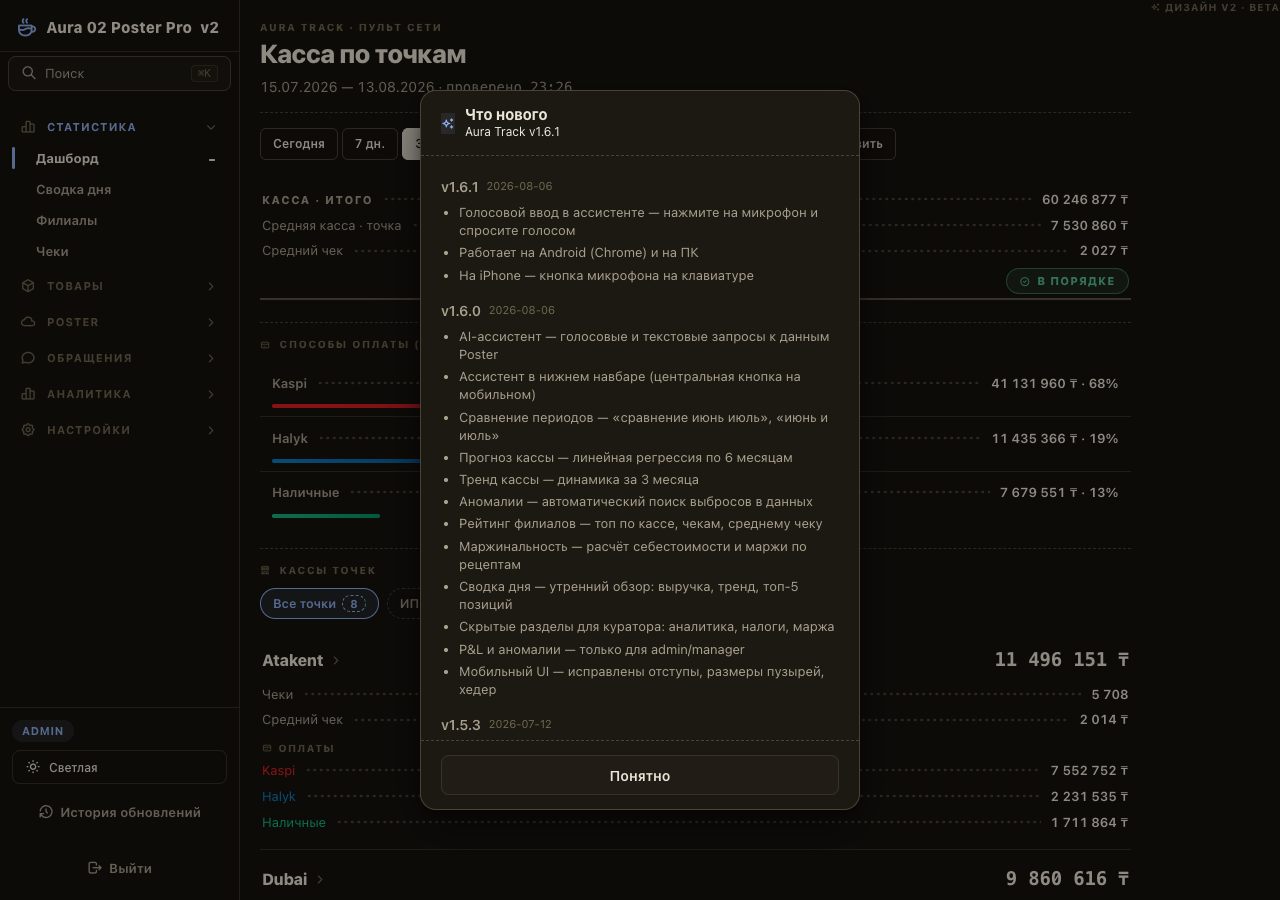
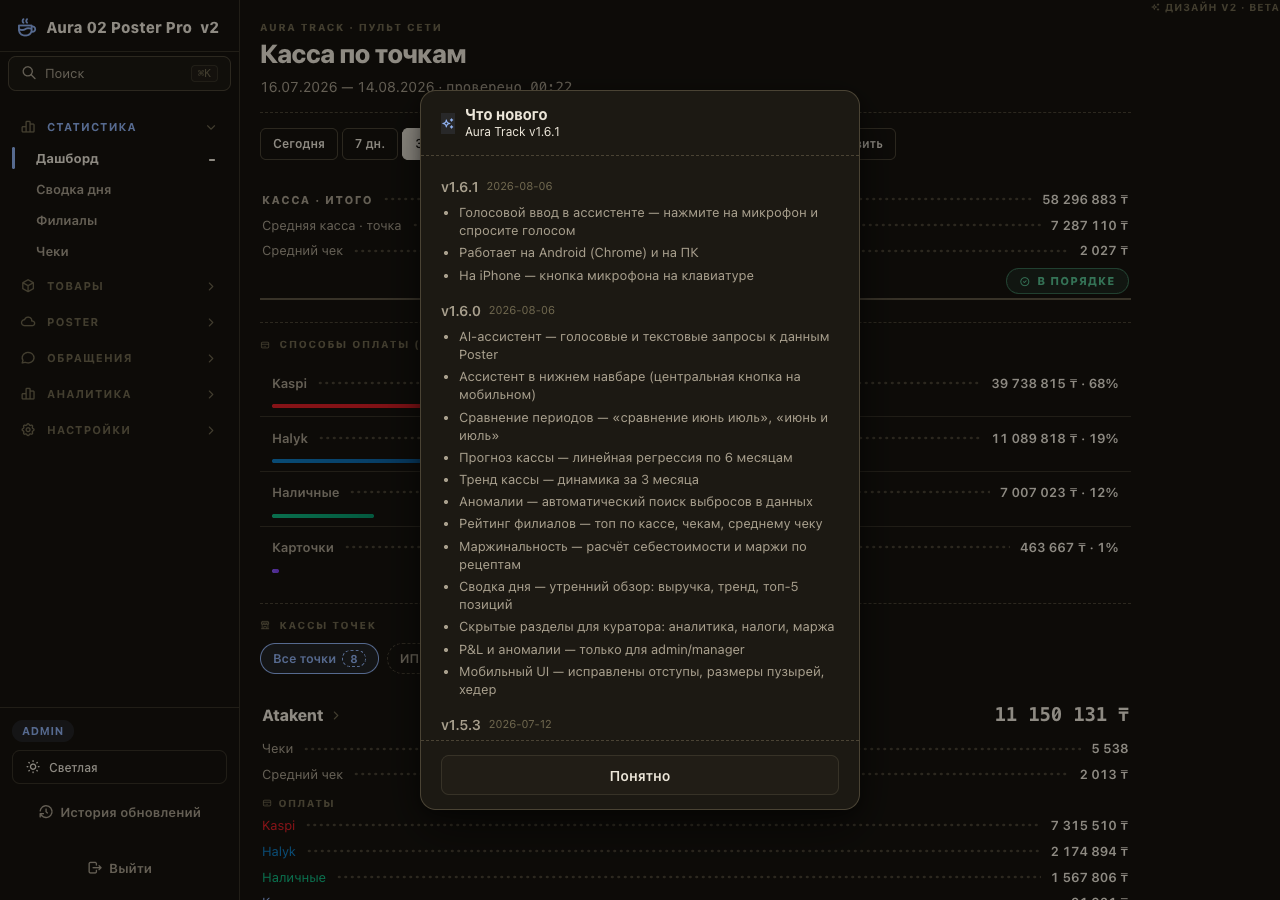
Пульт: сравнение кассы с вчера, график кассы по дням, пустые состояния

diff --git a/src/components/CashLedger.jsx b/src/components/CashLedger.jsx
@@ -6,7 +6,7 @@
 import { useMemo, useState, useEffect } from "react";
 import { fmt } from "../utils";
 import { useToast } from "../ui";
-import { fetchCashBySpot, fetchSupplyStatus, fetchPaymentBreakdown, getPaymentMethodName } from "../poster";
+import { fetchCashBySpot, fetchSupplyStatus, fetchPaymentBreakdown, getPaymentMethodName, getCachedDayTotals } from "../poster";
 import { useHashRoute } from "../router";
 import { getSpotNameForBranch, isAdminOrManager, useRole } from "../auth.jsx";
 import { loadIPGroups } from "../ipGroups";
@@ -35,6 +35,12 @@ function daysAgoStr(n) {
   const d = new Date();
   d.setDate(d.getDate() - n);
   return `${d.getFullYear()}-${pad(d.getMonth() + 1)}-${pad(d.getDate())}`;
+}
+
+function fmtPct(change) {
+  if (change == null || !isFinite(change)) return "";
+  const sign = change > 0 ? "+" : "";
+  return `${sign}${change.toFixed(1)}%`;
 }
 
 function fmtClock(ts) {
@@ -67,6 +73,7 @@ export default function CashLedger({
   const [dateFrom, setDateFrom] = useState(todayStr());
   const [dateTo, setDateTo] = useState(todayStr());
   const [checkedAt, setCheckedAt] = useState(Date.now());
+  const [yesterdayTotal, setYesterdayTotal] = useState(null);
   const [ipGroups, setIpGroups] = useState([]);
   const [selectedIP, setSelectedIP] = useState("all");
 
@@ -85,16 +92,21 @@ export default function CashLedger({
     async function load(quiet) {
       if (!quiet) setLoading(true);
       setError("");
-      const [cashResult, suppliesResult, payResult] = await Promise.allSettled([
+      const yesterday = isToday ? fetchCashBySpot(daysAgoStr(1), daysAgoStr(1)) : Promise.resolve(null);
+      const [cashResult, suppliesResult, payResult, yResult] = await Promise.allSettled([
         fetchCashBySpot(dateFrom, dateTo),
         fetchSupplyStatus(null),
         fetchPaymentBreakdown(dateFrom, dateTo),
+        yesterday,
       ]);
       if (cancelled) return;
       if (cashResult.status === "fulfilled") setCashBySpot(cashResult.value);
       else setError(cashResult.reason?.message || "Ошибка касс");
       if (suppliesResult.status === "fulfilled") setSupplyStatus(suppliesResult.value);
       if (payResult.status === "fulfilled") setPayBreakdown(payResult.value);
+      if (yResult.status === "fulfilled" && yResult.value) {
+        setYesterdayTotal(yResult.value.reduce((s, c) => s + c.total, 0));
+      }
       setCheckedAt(Date.now());
       setLoading(false);
     }
@@ -151,6 +163,12 @@ export default function CashLedger({
 
   const totalCash = useMemo(() => displayCash.reduce((s, c) => s + c.total, 0), [displayCash]);
   const totalTx = useMemo(() => displayCash.reduce((s, c) => s + c.txCount, 0), [displayCash]);
+
+  // График кассы по дням — из локального кэша дней (без лишних запросов)
+  const daySeries = useMemo(() => {
+    if (isToday) return [];
+    return getCachedDayTotals(dateFrom, dateTo);
+  }, [dateFrom, dateTo, cashBySpot, isToday]);
 
   // Способы оплаты: агрегируем по отфильтрованным точкам
   const paymentMethods = useMemo(() => {
@@ -288,6 +306,23 @@ export default function CashLedger({
           <span className="cl-line-dots" />
           <span className="cl-line-value cl-total-value">{fmt(totalCash)}</span>
         </div>
+        {isToday && yesterdayTotal != null && (
+          <div className="cl-line">
+            <span className="cl-line-label">Вчера за день</span>
+            <span className="cl-line-dots" />
+            <span className="cl-line-value">
+              {fmt(yesterdayTotal)}
+              {totalCash > 0 && yesterdayTotal > 0 && (
+                <span
+                  className={totalCash >= yesterdayTotal ? "delta up" : "delta down"}
+                  title="Сравнение с вчерашней кассой"
+                >
+                  {fmtPct(((totalCash - yesterdayTotal) / yesterdayTotal) * 100)}
+                </span>
+              )}
+            </span>
+          </div>
+        )}
         <div className="cl-line">
           <span className="cl-line-label">Средняя касса · точка</span>
           <span className="cl-line-dots" />
@@ -329,6 +364,37 @@ export default function CashLedger({
         </div>
       )}
 
+      {/* ─── Касса по дням ──────────────────────────────────────────── */}
+      {!isToday && daySeries.length > 0 && (
+        <div className="cl-zone">
+          <div className="cl-zone-title">
+            <i className="ti ti-chart-arcs" aria-hidden="true" /> Касса по дням
+            <span className="cl-zone-sub">· {daySeries.length} дн.</span>
+          </div>
+          <div className="day-chart">
+            {(() => {
+              const max = Math.max(...daySeries.map((d) => d.total), 1);
+              return daySeries.map((d, i) => {
+                const h = Math.max(4, Math.round((d.total / max) * 100));
+                const showLabel = daySeries.length <= 14 || i % 5 === 0 || i === daySeries.length - 1;
+                return (
+                  <div key={d.yyyymmdd} className="day-chart-col" title={`${d.yyyymmdd.slice(8, 10)}.${d.yyyymmdd.slice(5, 7)} · ${fmt(d.total)}`}>
+                    <div className="day-chart-track">
+                      <div className={`day-chart-bar${d.total === max ? " day-chart-bar-max" : ""}`} style={{ height: `${h}%` }} />
+                    </div>
+                    {showLabel ? (
+                      <span className="day-chart-label">{d.yyyymmdd.slice(8, 10)}.{d.yyyymmdd.slice(5, 7)}</span>
+                    ) : (
+                      <span className="day-chart-label" />
+                    )}
+                  </div>
+                );
+              });
+            })()}
+          </div>
+        </div>
+      )}
+
       {/* ─── Лента касс ─────────────────────────────────────────────── */}
       {loading ? (
         <div className="cl-zone">
@@ -336,6 +402,19 @@ export default function CashLedger({
           {[0, 1, 2].map((i) => (
             <div key={i} className="skeleton" style={{ height: 72, marginBottom: 10 }} />
           ))}
+        </div>
+      ) : displayCash.length === 0 && !error ? (
+        <div className="cl-zone">
+          <div className="cl-zone-title"><i className="ti ti-calendar-time" aria-hidden="true" /> Кассы точек</div>
+          <div className="cl-empty">
+            <i className="ti ti-moon-stars" aria-hidden="true" style={{ fontSize: 26, color: "var(--text-muted)" }} />
+            <div style={{ fontSize: 14, fontWeight: 700 }}>Данных за выбранный период нет</div>
+            {isToday && (
+              <div style={{ fontSize: 13, color: "var(--text-muted)" }}>
+                Первые чеки появятся после открытия точки. Данные обновляются каждые 2 минуты.
+              </div>
+            )}
+          </div>
         </div>
       ) : displayCash.length > 0 ? (
         <div className="cl-zone">

diff --git a/src/styles.css b/src/styles.css
@@ -5039,6 +5039,54 @@ select.form-input { padding-right: 28px; cursor: pointer; appearance: none; back
   align-items: center;
   gap: 8px;
 }
+.design-v2 .cl-zone-sub { color: var(--text-muted); font-weight: 600; }
+.design-v2 .delta { margin-left: 6px; font-weight: 700; font-variant-numeric: tabular-nums; }
+.design-v2 .delta.up { color: var(--text-success); }
+.design-v2 .delta.down { color: var(--text-danger); }
+.design-v2 .day-chart {
+  display: flex;
+  align-items: flex-end;
+  gap: 3px;
+  height: 132px;
+  padding: 6px 2px 0;
+}
+.design-v2 .day-chart-col {
+  flex: 1 1 0;
+  min-width: 0;
+  display: flex;
+  flex-direction: column;
+  align-items: center;
+  gap: 5px;
+  height: 100%;
+}
+.design-v2 .day-chart-track {
+  flex: 1 1 0;
+  width: 100%;
+  display: flex;
+  align-items: flex-end;
+  justify-content: center;
+  border-radius: 4px;
+}
+.design-v2 .day-chart-bar {
+  width: 68%;
+  min-width: 3px;
+  border-radius: 4px 4px 2px 2px;
+  background: linear-gradient(180deg, color-mix(in srgb, var(--text-accent) 75%, var(--bg)) 0%, color-mix(in srgb, var(--text-accent) 42%, var(--bg)) 100%);
+  transition: opacity 0.15s ease;
+}
+.design-v2 .day-chart-col:hover .day-chart-bar { opacity: 0.75; }
+.design-v2 .day-chart-bar-max { background: linear-gradient(180deg, var(--text-accent) 0%, color-mix(in srgb, var(--text-accent) 55%, transparent) 100%); }
+.design-v2 .day-chart-label { font-size: 9px; font-weight: 700; letter-spacing: 0.05em; color: var(--text-muted); white-space: nowrap; overflow: hidden; }
+.design-v2 .cl-empty {
+  display: flex;
+  flex-direction: column;
+  align-items: center;
+  gap: 10px;
+  padding: 26px 18px;
+  text-align: center;
+  border: 1px dashed var(--border-strong);
+  border-radius: var(--radius-lg);
+}
 .design-v2 .cl-attention-item {
   display: flex;
   align-items: baseline;

diff --git a/src/poster.js b/src/poster.js
@@ -360,6 +360,27 @@ export function clearPosterCache() {
   payBreakdownCache.clear();
 }
 
+// Дневные итоги кассы из локального кэша дней (без запросов к API).
+// Возвращает [{ yyyymmdd, total }] за диапазон или [] если кэша нет.
+export function getCachedDayTotals(dateFrom, dateTo) {
+  try {
+    const fromP = toPosterDate(dateFrom);
+    const toP = toPosterDate(dateTo);
+    if (!fromP || !toP) return [];
+    const cache = readCache();
+    const out = [];
+    for (const yyyymmdd of enumerateDays(fromP, toP)) {
+      const entry = cache[yyyymmdd];
+      if (!entry) continue;
+      const total = Object.values(entry.cashBySpot || {}).reduce((s, v) => s + v, 0);
+      out.push({ yyyymmdd, total });
+    }
+    return out;
+  } catch (_) {
+    return [];
+  }
+}
+
 // ─── Stale-while-revalidate: отдаём устаревший кэш мгновенно ─────────────
 
 export function getCachedCashBySpot(dateFrom, dateTo) {
